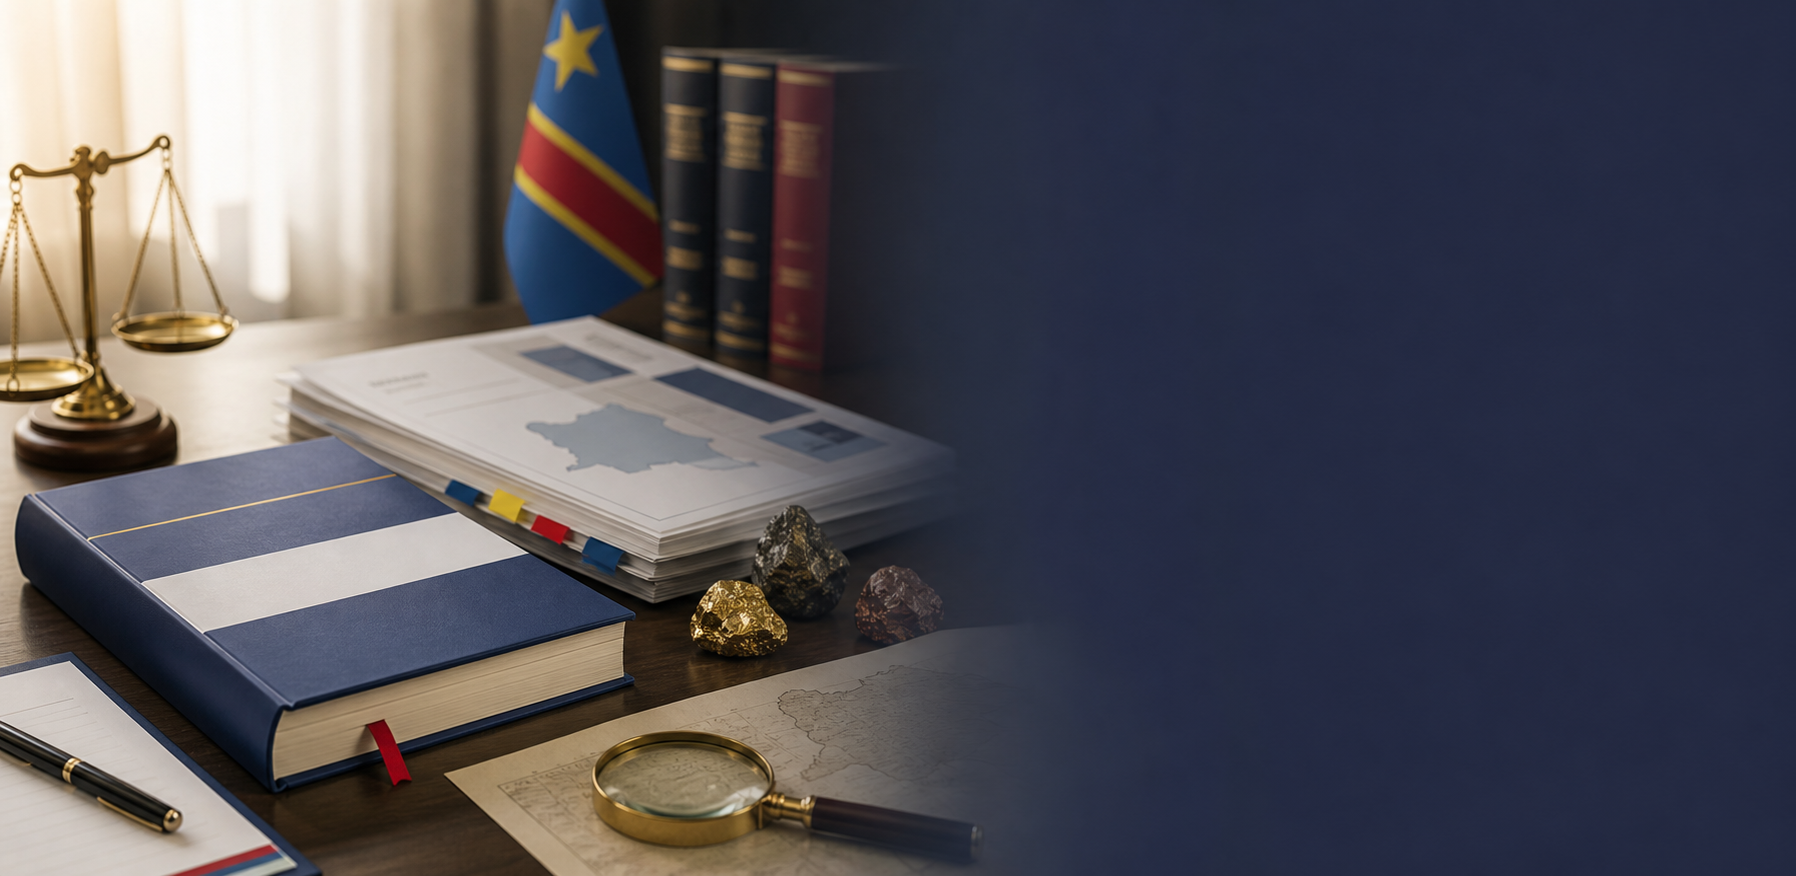
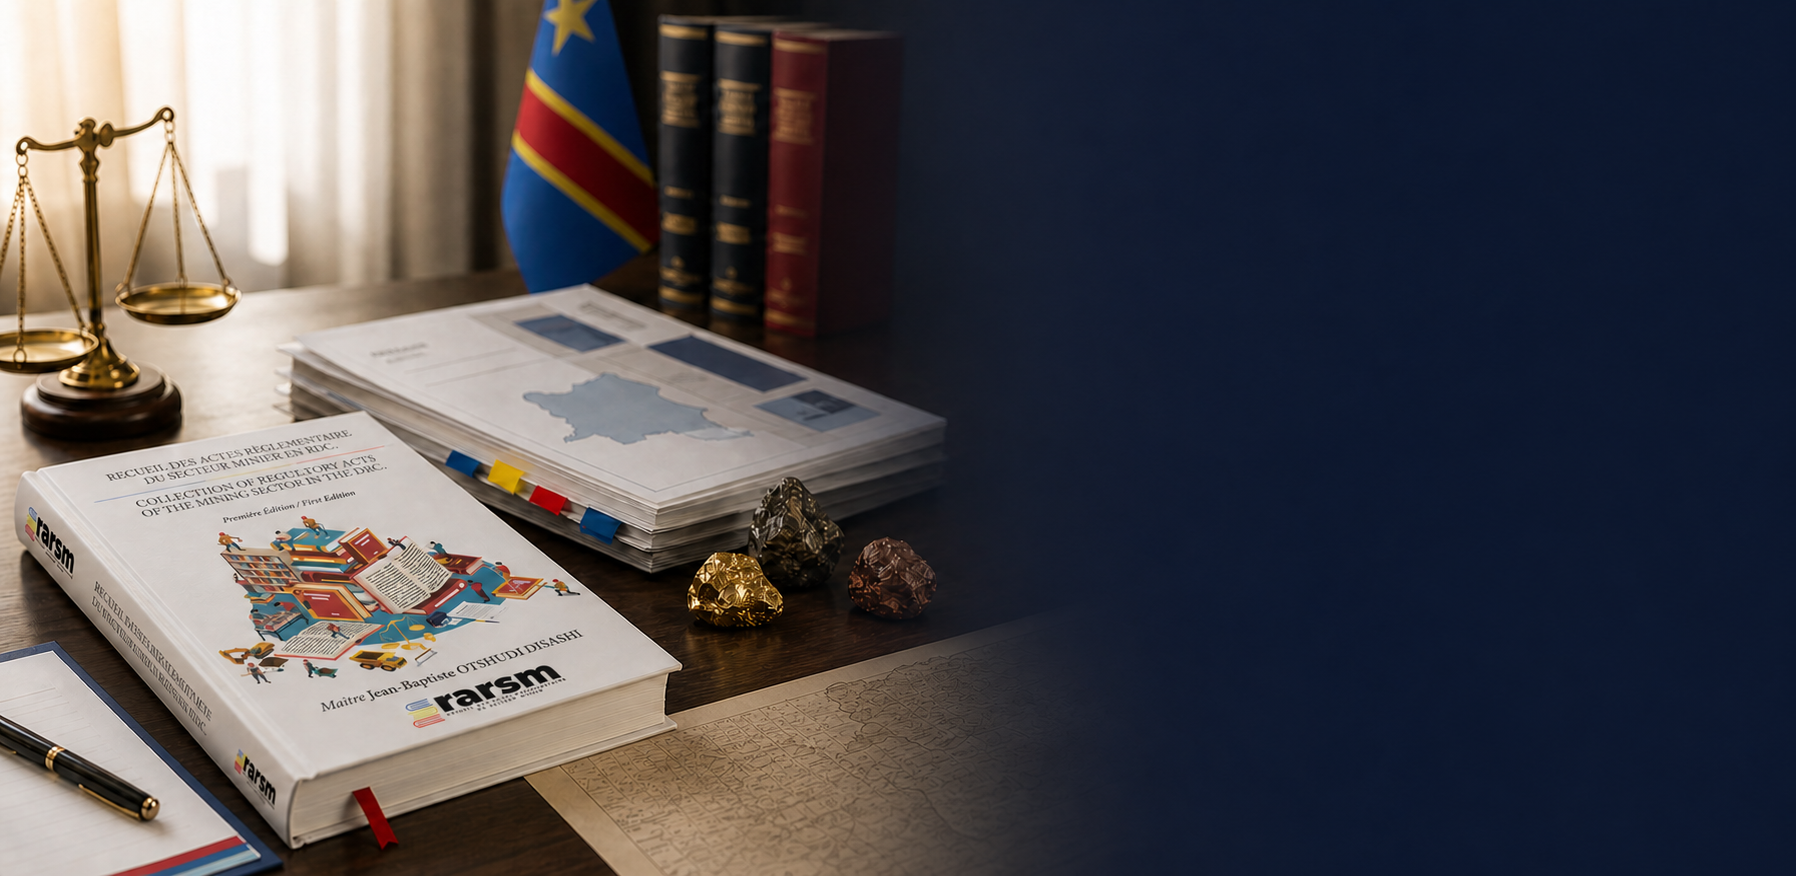
Ameliore les visuels du livre et des sections

diff --git a/Shop/shop-product-full.html b/Shop/shop-product-full.html
@@ -315,9 +315,9 @@
 												<img src="../images/rarsm-generated/hero-presentation-rarsm.png" alt="Présentation institutionnelle du RARSM" data-caption="Présentation institutionnelle" data-src="../images/rarsm-generated/hero-presentation-rarsm.png" data-large_image="../images/rarsm-generated/hero-presentation-rarsm.png" data-large_image_width="1000" data-large_image_height="1000">
 											</a>
 										</div>
-										<div data-thumb="../images/rarsm-generated/indispensable-recueil.png">
-											<a href="../images/rarsm-generated/indispensable-recueil.png">
-												<img src="../images/rarsm-generated/indispensable-recueil.png" alt="Pourquoi le recueil est indispensable" data-caption="Outil de référence juridique" data-src="../images/rarsm-generated/indispensable-recueil.png" data-large_image="../images/rarsm-generated/indispensable-recueil.png" data-large_image_width="1000" data-large_image_height="1000">
+										<div data-thumb="../images/rarsm-generated/indispensable-recueil.png?v=20260814-open-text-v4">
+											<a href="../images/rarsm-generated/indispensable-recueil.png?v=20260814-open-text-v4">
+												<img src="../images/rarsm-generated/indispensable-recueil.png?v=20260814-open-text-v4" alt="Présentation du recueil RARSM ouvert sur des textes réglementaires" data-caption="Outil de référence juridique" data-src="../images/rarsm-generated/indispensable-recueil.png?v=20260814-open-text-v4" data-large_image="../images/rarsm-generated/indispensable-recueil.png?v=20260814-open-text-v4" data-large_image_width="1254" data-large_image_height="1254">
 											</a>
 										</div>
 									</figure>
@@ -488,7 +488,7 @@
 										<li class="product">
 											<div class="product-inner">
 												<a href="../pricing.html#institutions">
-													<img src="../images/rarsm-generated/section-book-introduction-contexte.png" alt="Commande institutionnelle">
+													<img src="../images/rarsm-generated/section-book-introduction-contexte.png?v=20260814-clean-gradient-v3" alt="Commande institutionnelle avec la nouvelle couverture RARSM">
 												</a>
 												<div class="product-wrap">
 													<h2 class="woocommerce-loop-product__title">

diff --git a/index.html b/index.html
@@ -20,7 +20,7 @@
 <link href="favicon.png?v=20260702-favicon" rel="shortcut icon" type="image/png"/>
 <link href="favicon.png?v=20260702-favicon" rel="apple-touch-icon"/>
 <link href="css/site.css?v=20260814-theme-v2-recovered" rel="stylesheet"/>
-<link rel="stylesheet" href="css/rarsm.css?v=20260814-motifs-v6-recovered">
+<link rel="stylesheet" href="css/rarsm.css?v=20260814-section-book-mask-v14">
 <script>document.documentElement.className = document.documentElement.className.replace(/\bno-js\b/, "js");</script>
 <!--[if lt IE 9]>
 		<script src="js/vendor/html5shiv.min.js"></script>
@@ -371,7 +371,7 @@
 							<p>Promotion de la transparence et de la conformité minière</p>
 					</div>
 				<div class="col-lg-6 order-1 order-lg-2">
-					<div class="border-r-def overflow-hidden"><img alt="Pourquoi le recueil RARSM est indispensable" decoding="async" loading="lazy" src="images/rarsm-generated/indispensable-recueil.webp"/></div>
+					<div class="border-r-def overflow-hidden"><img alt="Présentation du recueil RARSM ouvert sur des textes réglementaires" decoding="async" loading="lazy" src="images/rarsm-generated/indispensable-recueil.png?v=20260814-open-text-v4"/></div>
 				</div>
 			</div>
 			<div class="row align-center">
@@ -741,7 +741,7 @@
 			<div class="col-lg-4 mb-30">
 				<article class="rarsm-axis-card">
 					<a class="rarsm-axis-card__media" href="#faqs">
-						<img alt="Cadre institutionnel" decoding="async" loading="lazy" src="images/rarsm-generated/cadre-institutionnel.webp"/>
+						<img alt="Cadre institutionnel et encadrement des activités minières en RDC" decoding="async" height="1254" loading="lazy" src="images/rarsm-generated/cadre-institutionnel-v2.png?v=20260814" width="1254"/>
 					</a>
 					<div class="rarsm-axis-card__body">
 						<span class="rarsm-axis-card__tag">Partie 1</span>

diff --git a/css/rarsm.css b/css/rarsm.css
@@ -392,7 +392,7 @@ body {
 
 /* Keep book and amazon on the same light surface while preserving their artwork. */
 .section-book {
-	background: var(--rarsm-paper) url("../images/rarsm-generated/section-book-introduction-contexte.png") no-repeat left center/cover;
+	background: var(--rarsm-paper) url("../images/rarsm-generated/page-title-rarsm-hero-v2.png?v=20260814-section-book-v1") no-repeat left center/cover;
 	color: #fff;
 }
 
@@ -471,8 +471,36 @@ body {
 }
 
 .section-book::before {
-	background: linear-gradient(90deg, rgba(18, 32, 93, 0.06) 0%, rgba(18, 32, 93, 0.18) 35%, rgba(18, 32, 93, 0.54) 58%, rgba(18, 32, 93, 0.8) 76%, rgba(18, 32, 93, 0.9) 100%);
+	background: linear-gradient(90deg, rgba(4, 11, 38, 0.84) 0%, rgba(7, 19, 62, 0.88) 38%, rgba(8, 22, 72, 0.94) 62%, rgba(3, 11, 42, 0.98) 100%);
 	opacity: 1;
+}
+
+.section-book::after {
+	background: linear-gradient(90deg, rgba(1, 6, 24, 0.28) 0%, rgba(1, 6, 24, 0.42) 42%, rgba(1, 6, 24, 0.68) 58%, rgba(1, 6, 24, 0.82) 100%);
+	content: "";
+	inset: 0;
+	pointer-events: none;
+	position: absolute;
+	z-index: 0;
+}
+
+@media (max-width: 767.98px) {
+	.home-modern .section-book {
+		background-position: 38% center;
+	}
+
+	.home-modern .section-book::before {
+		background:
+			linear-gradient(145deg, rgba(4, 12, 42, 0.98) 0%, rgba(10, 25, 76, 0.97) 58%, rgba(13, 32, 91, 0.96) 100%);
+	}
+
+	.home-modern .section-book::after {
+		background: rgba(1, 6, 24, 0.55);
+	}
+
+	.home-modern .section-book .col-lg-6 {
+		text-shadow: 0 2px 12px rgba(4, 12, 42, 0.28);
+	}
 }
 
 .section-amazon.ls.ms.s-overlay::before {

diff --git a/Shop/shop-full.html b/Shop/shop-full.html
@@ -282,7 +282,7 @@
 						</li>
 						<li class="product">
 							<div class="product-inner">
-								<a href="../pricing.html#institutions"><img src="../images/rarsm-generated/section-book-introduction-contexte.png" alt="Pack cabinet RARSM"></a>
+								<a href="../pricing.html#institutions"><img src="../images/rarsm-generated/section-book-introduction-contexte.png?v=20260814-clean-gradient-v3" alt="Pack cabinet RARSM avec la nouvelle couverture"></a>
 								<div class="product-wrap">
 									<span class="rarsm-shop-tag">Cabinets</span>
 									<h2 class="woocommerce-loop-product__title"><a href="../pricing.html#institutions">Pack cabinet</a></h2>
@@ -310,7 +310,7 @@
 						</li>
 						<li class="product">
 							<div class="product-inner">
-								<a href="../activites.html"><img src="../images/rarsm-generated/indispensable-recueil.png" alt="Invitation présentation RARSM"></a>
+								<a href="../activites.html"><img src="../images/rarsm-generated/indispensable-recueil.png?v=20260814-open-text-v4" alt="Présentation du recueil RARSM ouvert sur des textes réglementaires"></a>
 								<div class="product-wrap">
 									<span class="rarsm-shop-tag">Activités</span>
 									<h2 class="woocommerce-loop-product__title"><a href="../activites.html">Présentation / dédicace</a></h2>

diff --git a/book.html b/book.html
@@ -330,7 +330,7 @@
 							</div>
 							<div class="col-lg-6 order-1 order-lg-2">
 								<div class="book-overview-media">
-									<img src="images/rarsm-generated/indispensable-recueil.webp" alt="Pourquoi le recueil RARSM est indispensable" loading="lazy" decoding="async">
+									<img src="images/rarsm-generated/indispensable-recueil.png?v=20260814-open-text-v4" alt="Présentation du recueil RARSM ouvert sur des textes réglementaires" loading="lazy" decoding="async">
 									<div class="book-overview-media__badge">Référence juridique du secteur minier</div>
 								</div>
 							</div>
